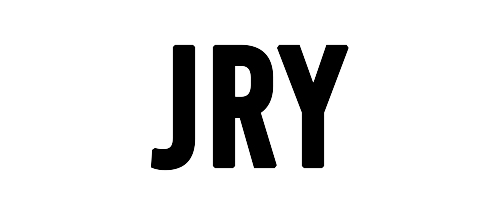
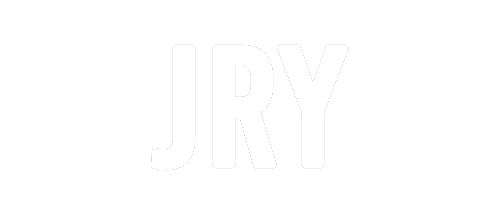
Initial portfolio project Commit

Changed region(s): [[0.42, 0.21, 0.72, 0.84], [0.3, 0.21, 0.39, 0.87]]

diff --git a/public/indexcomplete.css b/public/indexcomplete.css
@@ -23,5 +23,9 @@ header .navbar-icon a{
     margin-left: 10%;
     font-size: 16px;
     text-decoration: none;
-    color: black;
+    color: white;
+}
+
+body{
+    background-color: rgb(32, 32, 32);
 }
